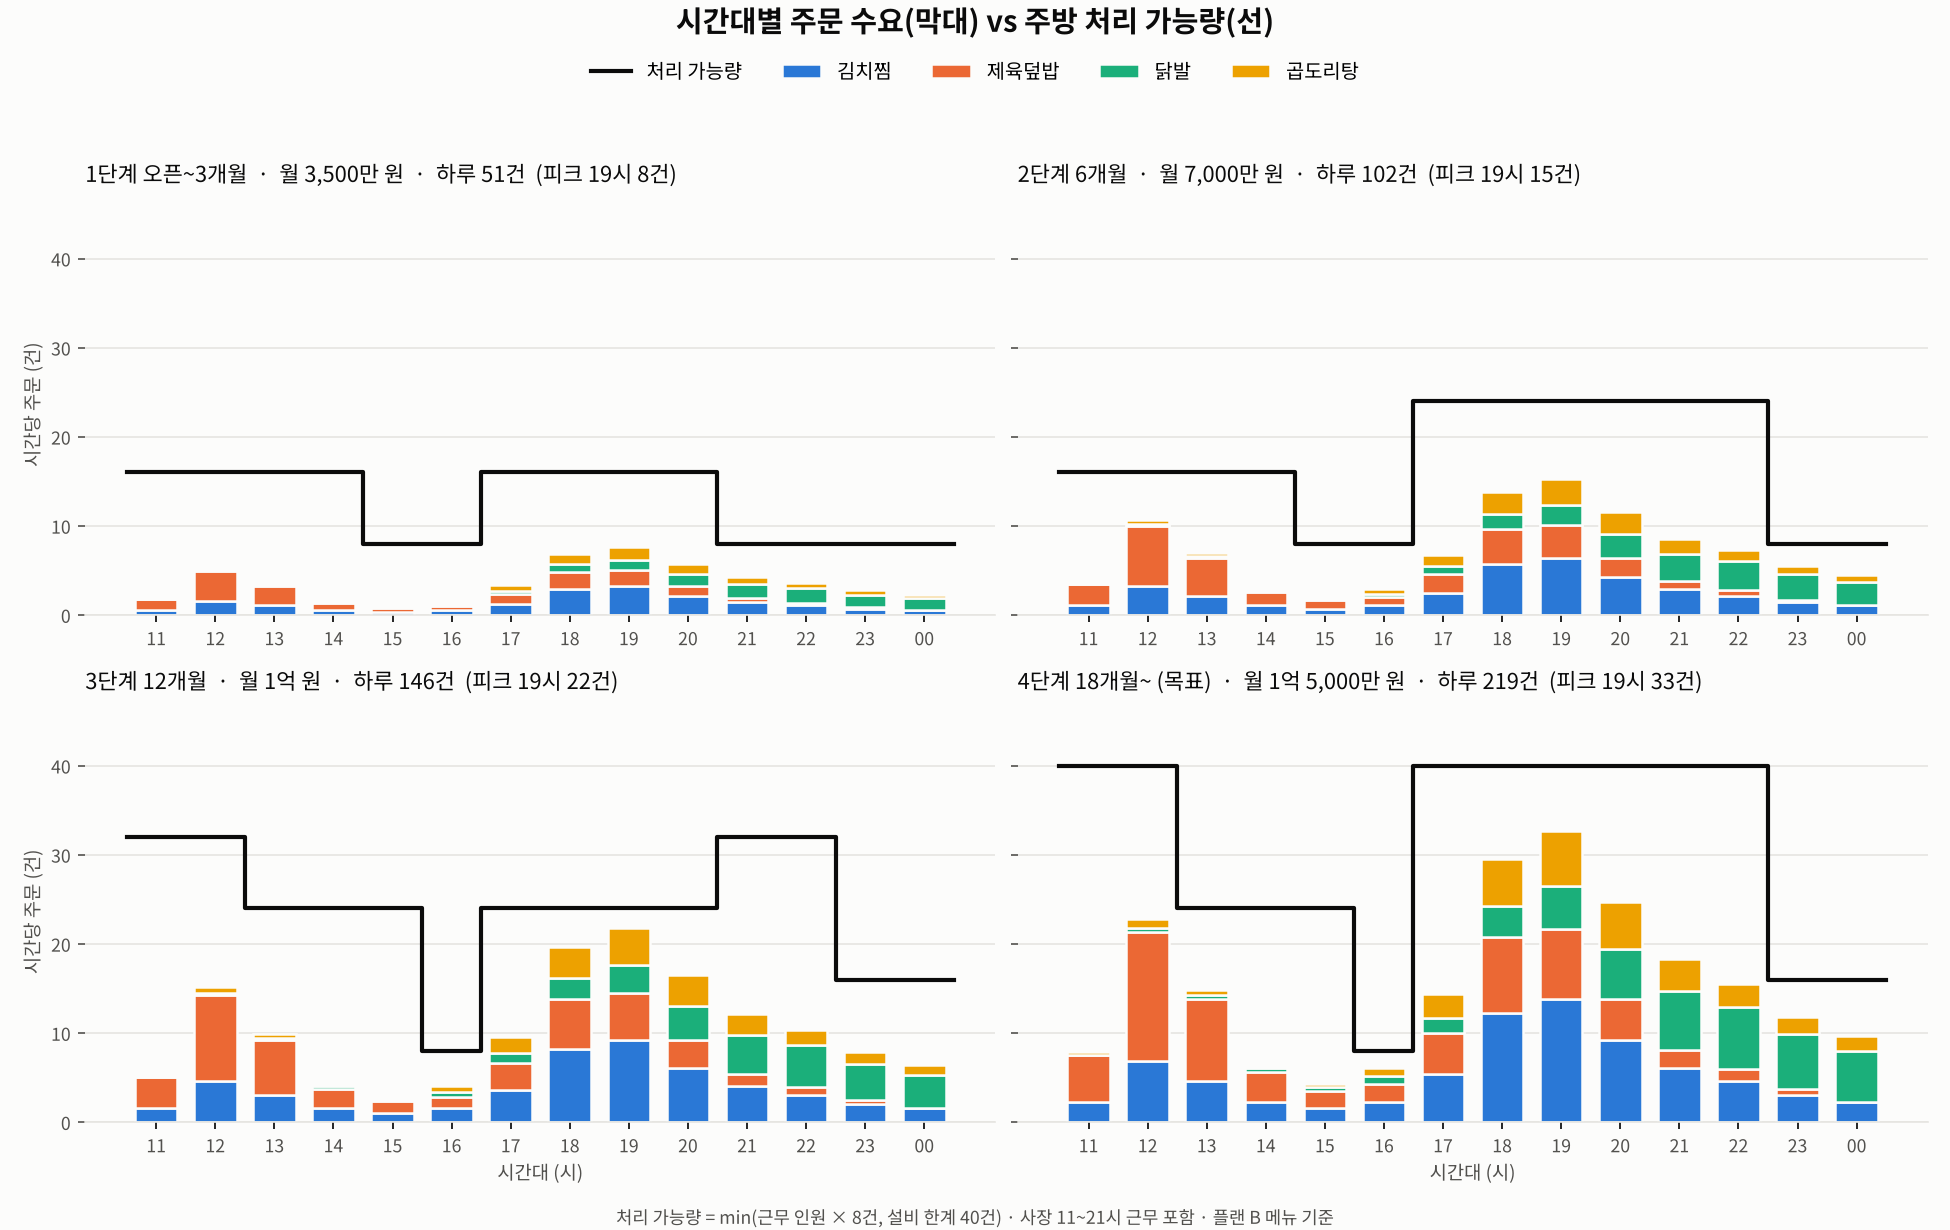
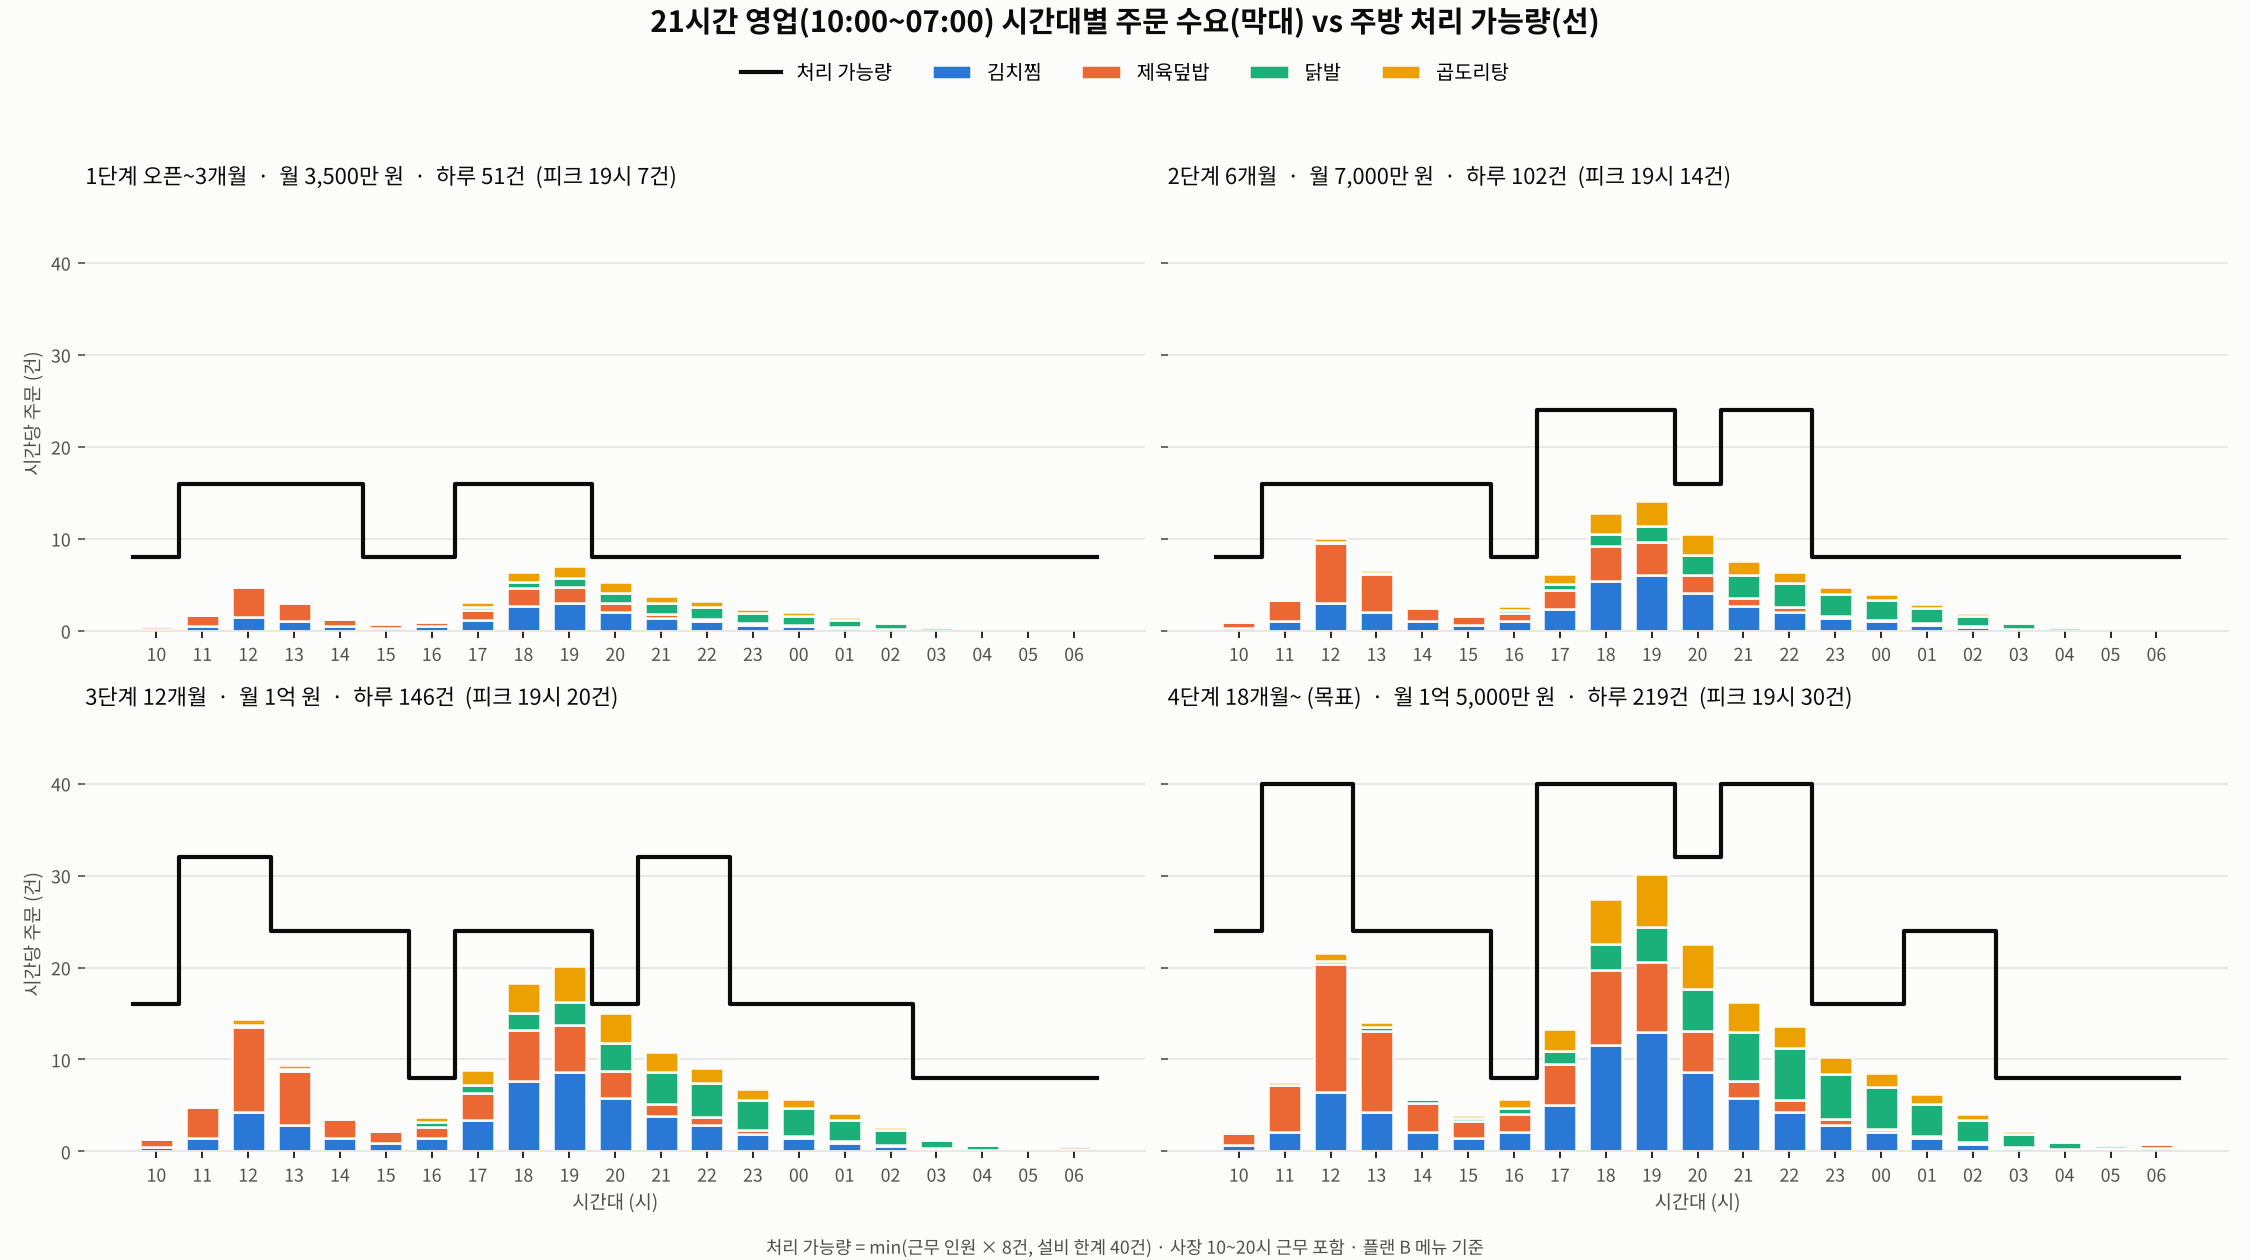
Model 21-hour operation (10:00-07:00) in the simulation
Hourly demand now spans 21 hours, staffing adds late-night shifts, labor
is costed per hour with the 50% night premium once the store reaches
five workers, utilities rise for the longer day, and a new sheet checks
whether the 01:00-07:00 window covers its own cost.

Claude-Session: https://claude.ai/code/session_019fqrWohtTSxpdk7nNCRMqp

diff --git a/baemin_analysis/target_sim.py b/baemin_analysis/target_sim.py
@@ -16,29 +16,31 @@ TARGET = 150_000_000
 PLAN_B = {"김치찜": dict(aov=24000, cost_rate=0.29), "제육덮밥": dict(aov=18000, cost_rate=0.32)}
 
 DINNER_PEAK_SHARE = 0.30   # 18~20시 2시간에 하루 주문의 30%가 몰린다고 가정
-NIGHT_PREMIUM_HOURLY = 14_500  # 5인 이상: 야간가산·4대보험 반영 평균 시급
-SMALL_HOURLY = ps.HOURLY       # 5인 미만: 주휴·산재·고용 반영 시급
+SMALL_HOURLY = ps.HOURLY       # 5인 미만: 주휴·산재·고용 반영 시급 (가산수당 의무 없음)
+BIG_DAY_HOURLY = 13_500        # 5인 이상 주간: 주휴 + 4대보험 사업주 부담
+BIG_NIGHT_HOURLY = BIG_DAY_HOURLY + round(ps.MIN_WAGE * 0.5)   # 5인 이상 22~06시: 통상임금 50% 야간가산
 
 # 단계별 인력 배치 (사장 제외): (근무조, 시간대, 1일 근무시간, 인원)
 STAGES = [
     dict(name="1단계 오픈~3개월", sales=35_000_000, staff=[
-        ("점심", "11:00~15:00", 4, 1), ("저녁·야간", "17:00~01:00", 8, 1)]),
+        ("점심", "11:00~15:00", 4, 1), ("저녁·야간", "17:00~01:00", 8, 1), ("심야", "01:00~07:00", 6, 1)]),
     dict(name="2단계 6개월", sales=70_000_000, staff=[
-        ("점심", "11:00~15:00", 5, 1), ("저녁", "17:00~23:00", 6, 2), ("야간", "21:00~01:00", 4, 1)]),
+        ("점심", "11:00~16:00", 5, 1), ("저녁", "17:00~23:00", 6, 2), ("야간", "21:00~03:00", 6, 1),
+        ("심야", "03:00~07:00", 4, 1)]),
     dict(name="3단계 12개월", sales=100_000_000, staff=[
         ("오전 준비", "09:00~13:00", 4, 1), ("점심", "11:00~16:00", 5, 2),
-        ("저녁", "17:00~23:00", 6, 2), ("야간", "21:00~01:00", 4, 2)]),
+        ("저녁", "17:00~23:00", 6, 2), ("야간", "21:00~03:00", 6, 2), ("심야", "03:00~07:00", 4, 1)]),
     dict(name="4단계 18개월~ (목표)", sales=TARGET, staff=[
         ("오전 준비", "09:00~13:00", 4, 2), ("점심", "11:00~16:00", 5, 2),
-        ("저녁", "17:00~23:00", 6, 4), ("야간", "21:00~01:00", 4, 2)]),
+        ("저녁", "17:00~23:00", 6, 4), ("야간", "21:00~03:00", 6, 2), ("심야", "01:00~07:00", 6, 1)]),
 ]
 
 # 단계별 월 고정비 (원). 월세는 100만 원 고정, 나머지는 물량에 따라 증가
 FIXED_STAGES = {
     "월세": [1_000_000] * 4,
     "관리비": [100_000] * 4,
-    "전기": [350_000, 550_000, 750_000, 950_000],
-    "가스": [300_000, 450_000, 600_000, 800_000],
+    "전기 (21시간: 조명·후드 +25%)": [440_000, 690_000, 940_000, 1_190_000],
+    "가스 (21시간: +15%)": [350_000, 520_000, 690_000, 920_000],
     "수도": [80_000, 120_000, 160_000, 220_000],
     "통신·POS·주문접수": [70_000, 70_000, 90_000, 90_000],
     "음식물·폐기물": [50_000, 80_000, 120_000, 150_000],
@@ -82,13 +84,37 @@ def orders_for(sales, bs):
     return total, [total * b["share"] for b in bs]
 
 
-def labor(stage):
-    daily_hours = sum(h * n for _, _, h, n in stage["staff"])
+def is_night(hh):
+    return hh % 24 >= 22 or hh % 24 < 6
+
+
+def shift_cost(time, big):
+    """근무조 1인의 하루 인건비와 그중 야간(22~06시) 시간."""
+    a, b = _span(time)
+    night = sum(1 for hh in range(a, b) if is_night(hh))
+    day = (b - a) - night
+    if not big:
+        return (b - a) * SMALL_HOURLY, night
+    return day * BIG_DAY_HOURLY + night * BIG_NIGHT_HOURLY, night
+
+
+def labor(stage, window=None):
+    """window=(시작hh, 끝hh)를 주면 그 시간대에 해당하는 인건비만 계산."""
     headcount = sum(n for *_, n in stage["staff"])   # 하루 근무 인원 = 상시근로자 수 근사
     big = headcount >= 5
-    hourly = NIGHT_PREMIUM_HOURLY if big else SMALL_HOURLY
-    return dict(daily_hours=daily_hours, month_hours=daily_hours * 30, headcount=headcount,
-                big=big, hourly=hourly, cost=daily_hours * 30 * hourly)
+    daily_hours = daily_cost = night_hours = 0
+    for _, time, _, n in stage["staff"]:
+        a, b = _span(time)
+        for hh in range(a, b):
+            if window and not (window[0] <= hh < window[1]):
+                continue
+            rate = BIG_NIGHT_HOURLY if big and is_night(hh) else (BIG_DAY_HOURLY if big else SMALL_HOURLY)
+            daily_hours += n
+            daily_cost += n * rate
+            night_hours += n if is_night(hh) else 0
+    return dict(daily_hours=daily_hours, month_hours=daily_hours * 30, headcount=headcount, big=big,
+                night_hours=night_hours * 30, hourly=round(daily_cost / daily_hours) if daily_hours else 0,
+                cost=daily_cost * 30)
 
 
 def stage_pnl(i, stage, bs):
@@ -220,28 +246,29 @@ def sheet_roadmap(wb, results):
 
 def sheet_staff(wb):
     ws = wb.create_sheet("단계별_인력표")
-    put(ws, 1, 1, "단계별 인력 배치 (사장은 매일 10시간 근무, 아래는 사장 외 인력)", font=Font(bold=True, size=13))
+    put(ws, 1, 1, "단계별 인력 배치 — 21시간 영업 10:00~07:00 (사장 10~20시 근무, 아래는 사장 외 인력)", font=Font(bold=True, size=13))
     r = 3
     for s in STAGES:
         lab = labor(s)
         put(ws, r, 1, f"{s['name']} — 월매출 {money(s['sales'])}", font=B, fill=SUB)
         r += 1
-        header(ws, r, ["근무조", "시간대", "1일 근무시간", "인원", "1일 인시", "월 인시", "적용 시급", "월 인건비"])
+        header(ws, r, ["근무조", "시간대", "1일 근무시간", "인원", "그중 야간(22~06)", "월 인시", "평균 시급", "월 인건비"])
         r += 1
         for shift, time, h, n in s["staff"]:
+            day_cost, night = shift_cost(time, lab["big"])
             for c, (v, fmt) in enumerate([(shift, None), (time, None), (h, '0"시간"'), (n, '0"명"'),
-                                           (h * n, '0"시간"'), (h * n * 30, '#,##0"시간"'),
-                                           (lab["hourly"], WON), (h * n * 30 * lab["hourly"], WON)], 1):
+                                           (night, '0"시간"'), (h * n * 30, '#,##0"시간"'),
+                                           (round(day_cost / h), WON), (day_cost * n * 30, WON)], 1):
                 put(ws, r, c, v, fmt)
             r += 1
         put(ws, r, 1, "합계", font=B)
         put(ws, r, 4, lab["headcount"], '0"명"', font=B)
-        put(ws, r, 5, lab["daily_hours"], '0"시간"', font=B)
+        put(ws, r, 5, lab["night_hours"] // 30, '0"시간"', font=B)
         put(ws, r, 6, lab["month_hours"], '#,##0"시간"', font=B)
         put(ws, r, 8, lab["cost"], WON, font=B)
         r += 1
-        put(ws, r, 1, "5인 이상 사업장 → 야간(22~06시) 50% 가산·4대보험 반영 평균 시급" if lab["big"]
-            else "5인 미만 사업장 → 주휴수당·산재·고용보험만 반영")
+        put(ws, r, 1, f"5인 이상 사업장 → 주간 {BIG_DAY_HOURLY:,}원, 야간(22~06시) {BIG_NIGHT_HOURLY:,}원 (통상임금 50% 가산)"
+            if lab["big"] else f"5인 미만 사업장 → 전 시간 {SMALL_HOURLY:,.0f}원 (주휴·산재·고용보험, 야간가산 의무 없음)")
         r += 2
     ws.column_dimensions["A"].width = 16
     ws.column_dimensions["B"].width = 16
@@ -273,6 +300,7 @@ def build_target_sheets(wb):
     sheet_staff(wb)
     sheet_fixed(wb)
     sheet_hourly(wb)
+    sheet_late_night(wb, bs, results)
     for s, p in zip(STAGES, results):
         print(f"{s['name']}: 일 {p['total'] / 30:.0f}건, 공헌 {p['contrib']:,.0f}, 인건비 {p['labor']['cost']:,.0f} "
               f"({p['labor']['headcount']}명), 고정 {p['fixed']:,.0f}, 영업이익 {p['profit']:,.0f} "
@@ -280,27 +308,34 @@ def build_target_sheets(wb):
 
 
 # ── 시간대별 처리량 ─────────────────────────────────────────────────────
-HOURS = list(range(11, 24)) + [0]       # 11시 ~ 새벽 0시대 (01시 마감)
+HOURS = list(range(10, 24)) + list(range(0, 7))   # 10:00 ~ 다음날 07:00 (21시간), 07~10시 청소·밑준비
 
 # 브랜드별 시간대 주문 비중 (합 = 1). 덮밥은 점심, 닭발은 야식, 찜·탕은 저녁 중심
-PROFILES = {
-    "김치찜": [.03, .09, .06, .03, .02, .03, .07, .16, .18, .12, .08, .06, .04, .03],
-    "제육덮밥": [.08, .22, .14, .05, .03, .03, .07, .13, .12, .07, .03, .02, .01, .00],
-    "닭발": [.00, .01, .01, .01, .01, .02, .04, .08, .11, .13, .15, .16, .14, .13],
-    "곱도리탕": [.01, .03, .02, .01, .01, .03, .08, .16, .19, .16, .11, .08, .06, .05],
+_RAW = {   # 10시 ~ 다음날 06시대, 상대 가중치 (아래에서 합 1로 정규화)
+    "김치찜": [1, 3, 9, 6, 3, 2, 3, 7, 16, 18, 12, 8, 6, 4, 3, 2, 1.2, .6, .3, .3, .5],
+    "제육덮밥": [2, 8, 22, 14, 5, 3, 3, 7, 13, 12, 7, 3, 2, 1, .5, .4, .2, .1, .1, .3, .8],
+    "닭발": [0, 0, 1, 1, 1, 1, 2, 4, 8, 11, 13, 15, 16, 14, 13, 10, 7, 4, 2, 1, .5],
+    "곱도리탕": [.5, 1, 3, 2, 1, 1, 3, 8, 16, 19, 16, 11, 8, 6, 5, 3.5, 2, 1, .5, .3, .3],
 }
-OWNER_HOURS = (11, 21)       # 사장 근무 11~21시
+PROFILES = {k: [v / sum(vs) for v in vs] for k, vs in _RAW.items()}
+OWNER_HOURS = (10, 20)       # 사장 근무 10~20시
+LATE = (25, 31)              # 심야 구간 01~07시 (hh 표기)
 PER_PERSON = 8               # 1인당 시간당 처리 (사전 조리된 찜·탕 데우기·담기·포장 기준)
 EQUIP_CAP = 40               # 15평 주방 설비 한계 (화구 6구 + 작업대 2, 시간당)
 
 
+def _hh(h):
+    return h + 24 if h < 9 else h
+
+
 def _span(time):
-    a, b = (int(t.split(":")[0]) for t in time.split("~"))
+    """'21:00~03:00' → (21, 27). 09시 이전은 전날 영업의 연장으로 본다."""
+    a, b = (_hh(int(t.split(":")[0])) for t in time.split("~"))
     return a, (b + 24 if b <= a else b)
 
 
 def staff_on(stage, h):
-    hh = h + 24 if h < 9 else h
+    hh = _hh(h)
     n = 1 if OWNER_HOURS[0] <= hh < OWNER_HOURS[1] else 0
     for _, time, _, cnt in stage["staff"]:
         a, b = _span(time)
@@ -335,7 +370,7 @@ def sheet_hourly(wb):
 
     bs = brands(plan_b=True)
     ws = wb.create_sheet("시간대별_처리량")
-    put(ws, 1, 1, f"시간대별 주문 수요 vs 처리 가능량 (1인당 시간당 {PER_PERSON}건, 주방 설비 한계 시간당 {EQUIP_CAP}건, 사장 11~21시 근무)",
+    put(ws, 1, 1, f"시간대별 주문 수요 vs 처리 가능량 (1인당 시간당 {PER_PERSON}건, 주방 설비 한계 시간당 {EQUIP_CAP}건, 사장 10~20시 근무)",
         font=Font(bold=True, size=13))
     r = 3
     for s in STAGES:
@@ -392,7 +427,7 @@ def draw_hourly_png(path, font_dir):
     INK, INK2, GRID, SURF = "#0b0b0b", "#52514e", "#e6e5e1", "#fcfcfb"
     SERIES = ["#2a78d6", "#eb6834", "#1baf7a", "#eda100"]      # 기준 팔레트 1~4번 고정 순서
     bs = brands(plan_b=True)
-    fig, axes = plt.subplots(2, 2, figsize=(13, 8.2), sharey=True, facecolor=SURF)
+    fig, axes = plt.subplots(2, 2, figsize=(15, 8.4), sharey=True, facecolor=SURF)
     x = list(range(len(HOURS)))
     labels = [f"{h:02d}" for h in HOURS]
     ymax = max(max(max(r["total"], r["cap"]) for r in hourly(s, bs)) for s in STAGES) * 1.18
@@ -428,8 +463,55 @@ def draw_hourly_png(path, font_dir):
         ax.set_xlabel("시간대 (시)", color=INK2, fontsize=9)
     handles, labs = axes[0, 0].get_legend_handles_labels()
     fig.legend(handles, labs, loc="upper center", ncol=5, frameon=False, fontsize=9.5, bbox_to_anchor=(0.5, 0.965))
-    fig.suptitle("시간대별 주문 수요(막대) vs 주방 처리 가능량(선)", fontsize=14, fontweight="bold", color=INK, y=0.995)
-    fig.text(0.5, 0.005, f"처리 가능량 = min(근무 인원 × {PER_PERSON}건, 설비 한계 {EQUIP_CAP}건) · 사장 11~21시 근무 포함 · 플랜 B 메뉴 기준",
+    fig.suptitle("21시간 영업(10:00~07:00) 시간대별 주문 수요(막대) vs 주방 처리 가능량(선)", fontsize=14, fontweight="bold", color=INK, y=0.995)
+    fig.text(0.5, 0.005, f"처리 가능량 = min(근무 인원 × {PER_PERSON}건, 설비 한계 {EQUIP_CAP}건) · 사장 10~20시 근무 포함 · 플랜 B 메뉴 기준",
              ha="center", fontsize=8.5, color=INK2)
     fig.tight_layout(rect=(0, 0.02, 1, 0.93))
     fig.savefig(path, dpi=150, facecolor=SURF)
+
+
+# 21시간 영업으로 늘어난 공과금 (14시간 영업 대비): 전기 +25%, 가스 +15%
+EXTRA_UTIL = [140_000, 210_000, 280_000, 360_000]
+
+
+def late_night(i, stage, bs, pnl):
+    """01~07시 심야 영업이 스스로 비용을 버는지."""
+    rows = hourly(stage, bs)
+    orders_day = sum(r["total"] for r in rows if LATE[0] <= _hh(r["hour"]) < LATE[1])
+    lab = labor(stage, window=LATE)["cost"]
+    cost = lab + EXTRA_UTIL[i]
+    per_order = pnl["contrib"] / pnl["total"]
+    need_day = cost / per_order / 30
+    return dict(orders_day=orders_day, labor=lab, util=EXTRA_UTIL[i], cost=cost, per_order=per_order,
+                need_day=need_day, profit=orders_day * 30 * per_order - cost)
+
+
+def sheet_late_night(wb, bs, results):
+    ws = wb.create_sheet("21시간_심야손익")
+    put(ws, 1, 1, "21시간 영업 중 심야(01~07시) 6시간이 스스로 비용을 버는가", font=Font(bold=True, size=13))
+    header(ws, 3, ["항목"] + [s["name"] for s in STAGES])
+    data = [late_night(i, s, bs, p) for i, (s, p) in enumerate(zip(STAGES, results))]
+    lines = [("심야 인건비 (01~07시분)", "labor", WON), ("추가 공과금 (전기·가스)", "util", WON),
+             ("심야 영업 비용 합계", "cost", WON), ("건당 공헌이익 (평균)", "per_order", WON),
+             ("손익분기 심야 주문 (하루)", "need_day", '0.0"건"'), ("시뮬레이션상 심야 주문 (하루)", "orders_day", '0.0"건"'),
+             ("심야 영업 손익 (월)", "profit", WON)]
+    for r, (label, key, fmt) in enumerate(lines, 4):
+        put(ws, r, 1, label, font=B if key in ("need_day", "profit") else None)
+        for j, d in enumerate(data, 2):
+            f = Font(bold=True, color="C0392B" if d[key] < 0 else "0F8F8A") if key == "profit" else None
+            put(ws, r, j, round(d[key], 1), fmt, font=f)
+    r = len(lines) + 6
+    put(ws, r, 1, "읽는 법", font=B)
+    for line in [
+        "• 손익분기 심야 주문 = 심야 비용 ÷ 건당 공헌이익. 01~07시에 하루 이만큼 이상 들어와야 심야 영업이 이익입니다.",
+        "• 시뮬레이션상 심야 주문은 같은 월매출을 21시간에 나눠 담은 값입니다. 실제로는 심야 영업이 '추가' 주문을 만들어야 의미가 있습니다.",
+        "• 5인 이상 사업장이 되면 22~06시 근무에 통상임금 50% 야간가산이 붙어 심야 비용이 커집니다.",
+        "• 오픈 후 2~4주는 심야(01~07시) 주문을 시간대별로 기록해 손익분기선과 비교하고, 못 넘으면 03시 마감 등으로 줄이세요.",
+    ]:
+        r += 1
+        put(ws, r, 1, line)
+    ws.column_dimensions["A"].width = 32
+    for col in "BCDE":
+        ws.column_dimensions[col].width = 22
+    for s, d in zip(STAGES, data):
+        print(f"[심야] {s['name']}: 비용 {d['cost']:,.0f} 손익분기 {d['need_day']:.1f}건/일, 가정 {d['orders_day']:.1f}건/일, 손익 {d['profit']:,.0f}")

diff --git a/baemin_analysis/profit_sim.py b/baemin_analysis/profit_sim.py
@@ -44,8 +44,8 @@ BRANDS = [
 FIXED = [
     ("월세", 1_000_000),
     ("관리비", 100_000),
-    ("전기 (냉장·냉동·후드, 14시간 영업)", 350_000),
-    ("가스 (화구, 찜·탕 장시간 조리)", 300_000),
+    ("전기 (냉장·냉동·후드, 21시간 영업)", 440_000),
+    ("가스 (화구, 찜·탕 장시간 조리, 21시간 영업)", 350_000),
     ("수도", 80_000),
     ("통신·POS·주문접수 프로그램", 70_000),
     ("음식물·폐기물 처리", 50_000),
@@ -60,7 +60,7 @@ FIXED = [
 # ── 인건비 ────────────────────────────────────────────────────────────
 MIN_WAGE = 10_320                 # 2026년 최저시급
 HOURLY = round(MIN_WAGE * 1.2 * 1.04, -2)   # 주휴수당(약 20%) + 산재·고용보험 일부
-OPEN_HOURS = 14                   # 11:00~01:00
+OPEN_HOURS = 21                   # 10:00~다음날 07:00
 OWNER_HOURS_MONTH = 10 * 26       # 사장 하루 10시간, 월 26일
 OWNER_WAGE = 3_000_000            # 사장 노동의 기회비용 (판단용)
 
